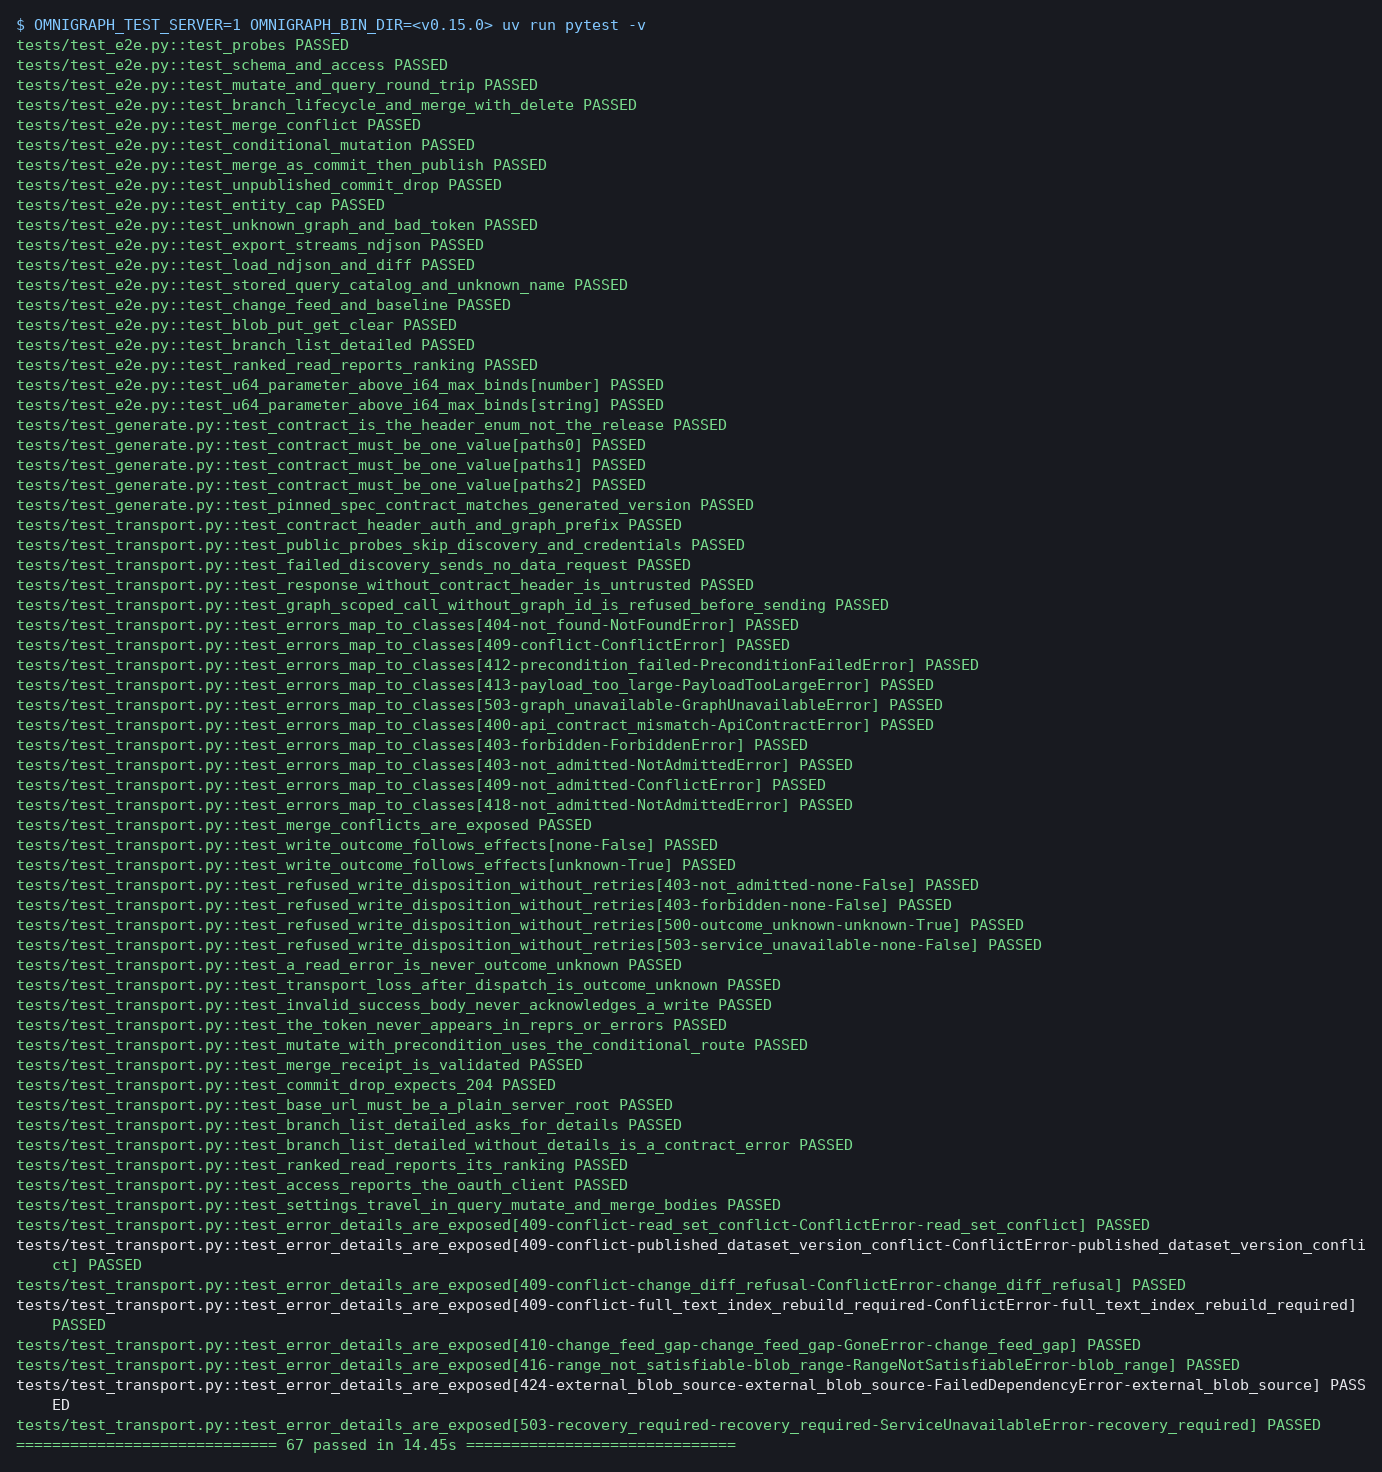
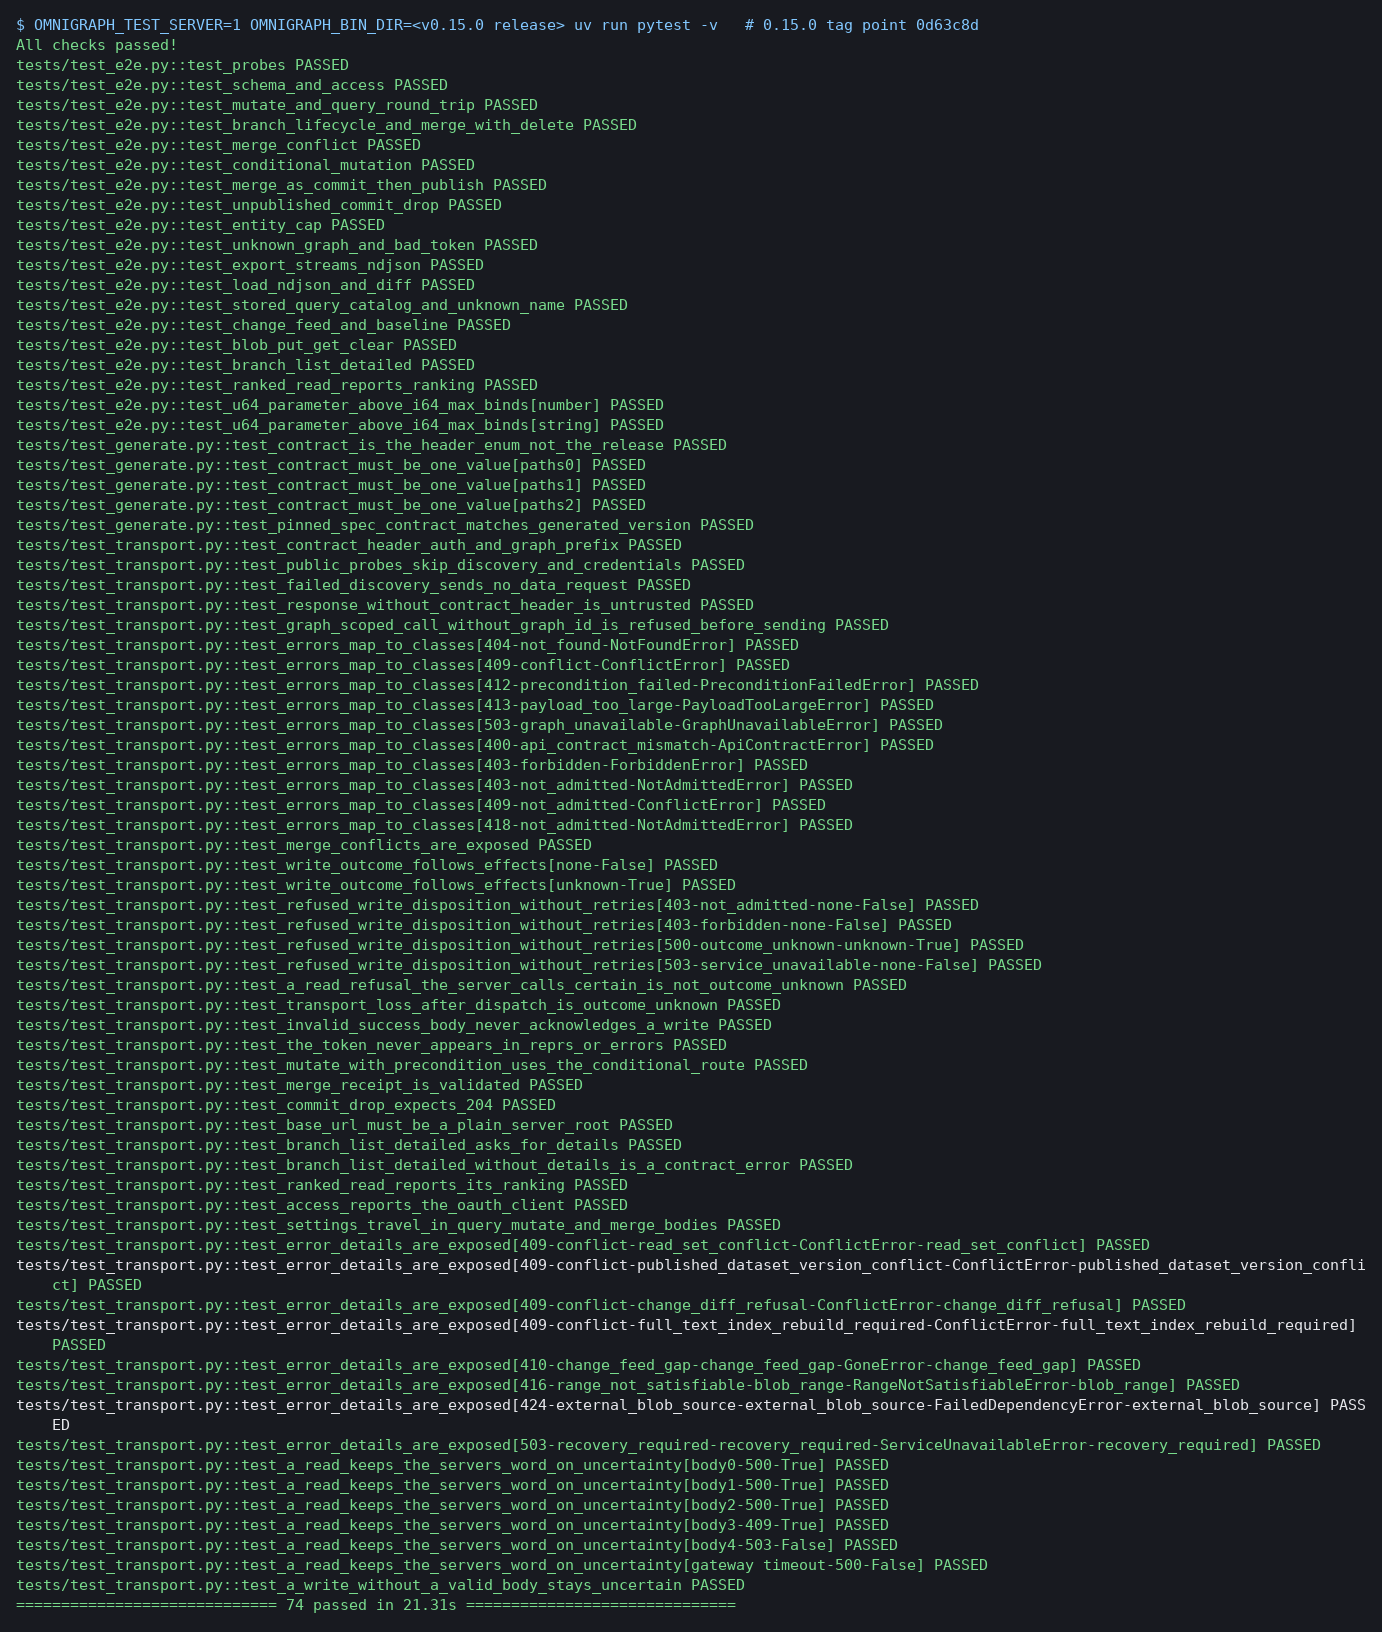
Refresh captures and ledger after the Codex review fixes

Changed region(s): [[0.0, 0.0, 0.9957, 1.0]]

diff --git a/ledger.md b/ledger.md
@@ -1,14 +1,14 @@
 # Omnigraph v0.14.0 → v0.16.0: client SDK commit ledger
 
 Every commit in `v0.14.0..v0.15.0` and `v0.15.0..v0.16.0` of ModernRelay/omnigraph, in order, with its effect on the Python SDK (`omnigraph-python`) and the TypeScript SDK (`omnigraph-ts`).
-Impact is `none`, `python`, `ts` or `both`. Wire facts were checked against the `openapi.json` diff of each tag (see the summary), the release notes and the commits themselves, and the new behaviour was exercised live against servers built from v0.15.0 (release binaries) and v0.16.0 (source).
+Impact is `none`, `python`, `ts` or `both`. Wire facts were checked against the `openapi.json` diff of each tag, the release notes and the commits themselves, and the new behaviour was exercised live against servers built from v0.15.0 (release binaries) and v0.16.0 (source and release binaries). Revised after Codex's review: `6fc2f823` (merge limit resource name), `62779133` (lookup uncertainty, receipts, cancel semantics) and `4f47b976` (Python tracing advice).
 
 ## Summary of wire changes
 
 - The `Omnigraph-Http-Api` contract stays `0.14` in both releases. Both SDKs derived the header from the server minor; that is fixed first in each PR.
 - 0.15 spec: `GET /branches?detailed=true` (`BranchDetailOutput`), `ReadOutput.ranking` (`RankingOutput`, `SearchFunction`, `RankOrder`), `AccessOutput.client_id`, `ErrorCode.not_admitted`, `SettingsRequest.change_lineage`, `LoadSliceExecutedOutput.read_ns`.
 - 0.16 spec: `POST /graphs/{id}/operations/optimize`, `GET /graphs/{id}/operations/{op}`, `POST /graphs/{id}/operations/{op}/cancel` (`StartOptimizeRequest`, `OperationOutput`, `OperationLookup`), `ErrorCode.writer_fenced` + `ErrorOutput.writer_fenced` (`WriterFencedOutput`), `AccessAction.maintain`, 409/500 on the cluster deployment reads.
-- Behaviour outside the spec: graphs without a policy refuse reads (0.16), request settings capped at server budgets (0.16), lost conditional race → `precondition_failure` (0.16), dry-run merge is a read (CLI, 0.16), converged direct apply releases its lock (0.16), U64 parameters above `i64::MAX` bind (0.15).
+- Behaviour outside the spec: graphs without a policy refuse reads (0.16), request settings capped at server budgets (0.16), lost conditional race → `precondition_failure` (0.16), the merge validation limit's `resource_limit` name and measure (0.16), a recorded-operation lookup can answer 500 `outcome_unknown` (0.16), dry-run merge is a read (CLI, 0.16), converged direct apply releases its lock (0.16), U64 parameters above `i64::MAX` bind (0.15).
 
 ## v0.14.0 → v0.15.0
 
@@ -34,7 +34,7 @@ Impact is `none`, `python`, `ts` or `both`. Wire facts were checked against the 
 | [`87006019`](https://github.com/ModernRelay/omnigraph/commit/87006019) | fix(load): admit a csv overwrite's memory once, one share per partition (#1187) | none | Load memory admission; a refusal stays 413 `payload_too_large` with `resource_limit`, already mapped. |
 | [`dc4a79d3`](https://github.com/ModernRelay/omnigraph/commit/dc4a79d3) | fix(server): refuse an unadmitted OIDC subject without a sign-in challenge (#1185) | both | New error code `not_admitted` (403, `effects: none`, no challenge). Regenerated `ErrorCode`; new `NotAdmittedError` (a `ForbiddenError`) so callers can tell "sign in again" from "ask the operator"; a refused write is no longer `outcome_unknown` (TS PR #25's intent). |
 | [`99b2d165`](https://github.com/ModernRelay/omnigraph/commit/99b2d165) | fix(cli)!: align organization commands with provider authority (#1179) | none | CLI only; the SDKs do not wrap the CLI. |
-| [`4f47b976`](https://github.com/ModernRelay/omnigraph/commit/4f47b976) | feat(server): add optional OTLP traces and correlated JSON logs (#1001) | none | Server OTLP traces/logs. The server reads incoming W3C `traceparent`; callers can already add it through an injected `fetch` (TS) or `httpx` client (Python). Listed under not carried over. |
+| [`4f47b976`](https://github.com/ModernRelay/omnigraph/commit/4f47b976) | feat(server): add optional OTLP traces and correlated JSON logs (#1001) | none | Server OTLP traces/logs. The server reads incoming W3C `traceparent`; TS callers add it with a custom `fetch`, Python callers with an `httpx.AsyncBaseTransport` that wraps the default one (the client takes a transport, not an `AsyncClient`; the Python README shows one). No new SDK option. |
 | [`dac660fb`](https://github.com/ModernRelay/omnigraph/commit/dac660fb) | feat(server)!: log an unknown publication's graph commit as its own field (#1124) | none | Server log field and Rust error API; the HTTP `outcome_unknown` body is unchanged. |
 | [`be90423a`](https://github.com/ModernRelay/omnigraph/commit/be90423a) | feat(cli): build a branch's declared indexes with omnigraph index build (#1150) | both | Spec text only: the full-text remedy now names `omnigraph index build`. Regenerated doc comments. |
 | [`37b05ab4`](https://github.com/ModernRelay/omnigraph/commit/37b05ab4) | build(nix): build the release binaries with a Nix flake (#1153) | none | Engine CI, build or release tooling. |
@@ -128,7 +128,7 @@ Impact is `none`, `python`, `ts` or `both`. Wire facts were checked against the 
 | [`757ab0e9`](https://github.com/ModernRelay/omnigraph/commit/757ab0e9) | feat(engine): add writer epoch fencing and the owner's probe skip (#1350) | both | New error code `writer_fenced` (409) with body `writer_fenced` (`WriterFencedOutput`: `current`, `held`, `read`). Regenerated; new `WriterFencedError` (a `ConflictError`) with a `writerFenced` / `writer_fenced` accessor; disposition decides `outcome_unknown` (PR #25's intent). |
 | [`0065a69f`](https://github.com/ModernRelay/omnigraph/commit/0065a69f) | rfc: graph shallow clone (#1351) | none | RFC (shallow clone). |
 | [`d0b9af44`](https://github.com/ModernRelay/omnigraph/commit/d0b9af44) | feat(engine)!: bound optimize runs and report each table's outcome (#1275) | both | Adds the `maintain` policy action (`AccessAction`) and per-dataset optimize outcomes. Regenerated enum; `access()` reports `maintain`; the operation record type carries the outcomes. |
-| [`62779133`](https://github.com/ModernRelay/omnigraph/commit/62779133) | feat(server,cli): run optimize as a recorded operation through the serving owner (#1282) | both | New routes `POST /operations/optimize`, `GET /operations/{id}`, `POST /operations/{id}/cancel` (`StartOptimizeRequest`, `OperationOutput`, `OperationLookup`). New `operations` resource: `optimize` (mints a canonical ULID when none is given), `get`, `cancel`, `wait` (polls the read route only), typed `Operation` record, `isTerminal`. Unit and e2e tests. |
+| [`62779133`](https://github.com/ModernRelay/omnigraph/commit/62779133) | feat(server,cli): run optimize as a recorded operation through the serving owner (#1282) | both | New routes `POST /operations/optimize`, `GET /operations/{id}`, `POST /operations/{id}/cancel` (`StartOptimizeRequest`, `OperationOutput`, `OperationLookup`). New `operations` resource: `optimize` (the caller's id is required; `newOperationId()` / `new_operation_id()` mints one, `optimize` never does), `get`, `cancel` (best effort; a `publishing` record is returned unchanged), `wait` (polls the read route only), typed record, and one receipt check for all three routes. A lookup can answer 500 `outcome_unknown` when its settlement write is in doubt; both SDKs now keep a server-sent `outcome_unknown` on every route. Unit and live tests, including a live cancel of an active run. |
 | [`adf024b7`](https://github.com/ModernRelay/omnigraph/commit/adf024b7) | fix(server)!: reserve the principal: actor prefix for signed identities (#1323) | none | Static-token actors may not start with `principal:`; server configuration only. Test actors are unaffected. |
 | [`259f6acb`](https://github.com/ModernRelay/omnigraph/commit/259f6acb) | fix(server)!: refuse a bearer-tokens file other accounts can write (#1324) | none | Server refuses a group/world-writable bearer-tokens file; e2e fixtures pass tokens through the environment. |
 | [`9a108b17`](https://github.com/ModernRelay/omnigraph/commit/9a108b17) | docs: state encryption at rest, catalog growth and outbound embedding requests (#1326) | none | Documentation only. |
@@ -176,7 +176,7 @@ Impact is `none`, `python`, `ts` or `both`. Wire facts were checked against the 
 | [`25b51992`](https://github.com/ModernRelay/omnigraph/commit/25b51992) | fix(cluster): every reader selects a scope's policy bundle by one rule (#1434) | none | Policy bundle binding rule; fixtures bind one bundle per scope. |
 | [`5a1ec458`](https://github.com/ModernRelay/omnigraph/commit/5a1ec458) | feat(bench)!: interleave `--at` refs per scenario and read several catalogs (#1439) | none | Engine test tooling (GQT, DST, bench); not shipped to clients. |
 | [`6da4c967`](https://github.com/ModernRelay/omnigraph/commit/6da4c967) | fix(cli): write a null as an empty field in CSV output (#1440) | none | CLI only; the SDKs do not wrap the CLI. |
-| [`6fc2f823`](https://github.com/ModernRelay/omnigraph/commit/6fc2f823) | fix(merge): stream merge validation and count only the delta's keys (#1433) | none | Engine internals (planner, storage, caches, performance); no change on the wire. |
+| [`6fc2f823`](https://github.com/ModernRelay/omnigraph/commit/6fc2f823) | fix(merge): stream merge validation and count only the delta's keys (#1433) | both | Merge validation streams the delta and counts only its keys; the structured 413 `resource_limit` names `branch-merge retained validation key bytes` instead of `branch-merge retained validation delta bytes`. No binding change: `resourceLimit` / `resource_limit` already carries the name and numbers. Recorded in both changelogs (callers should match on the code, not the name). Corrected after review: first classified as having no wire impact. |
 | [`bcc93bdc`](https://github.com/ModernRelay/omnigraph/commit/bcc93bdc) | docs(skill): start onboarding from the user's use case and end it with a completion check (#1420) | none | Documentation only. |
 | [`42013036`](https://github.com/ModernRelay/omnigraph/commit/42013036) | feat(gqt): declare a case's branches as state, not as steps (#1443) | none | Engine test tooling (GQT, DST, bench); not shipped to clients. |
 | [`90ccacb0`](https://github.com/ModernRelay/omnigraph/commit/90ccacb0) | fix(engine): bound the memory of removing nodes an edge type references (#1444) | none | Engine internals (planner, storage, caches, performance); no change on the wire. |
@@ -205,4 +205,4 @@ Impact is `none`, `python`, `ts` or `both`. Wire facts were checked against the 
 | Range | none | python | ts | both |
 |---|---|---|---|---|
 | v0.14.0 → v0.15.0 | 84 | 0 | 2 | 8 |
-| v0.15.0 → v0.16.0 | 73 | 1 | 2 | 10 |
+| v0.15.0 → v0.16.0 | 72 | 1 | 2 | 11 |
